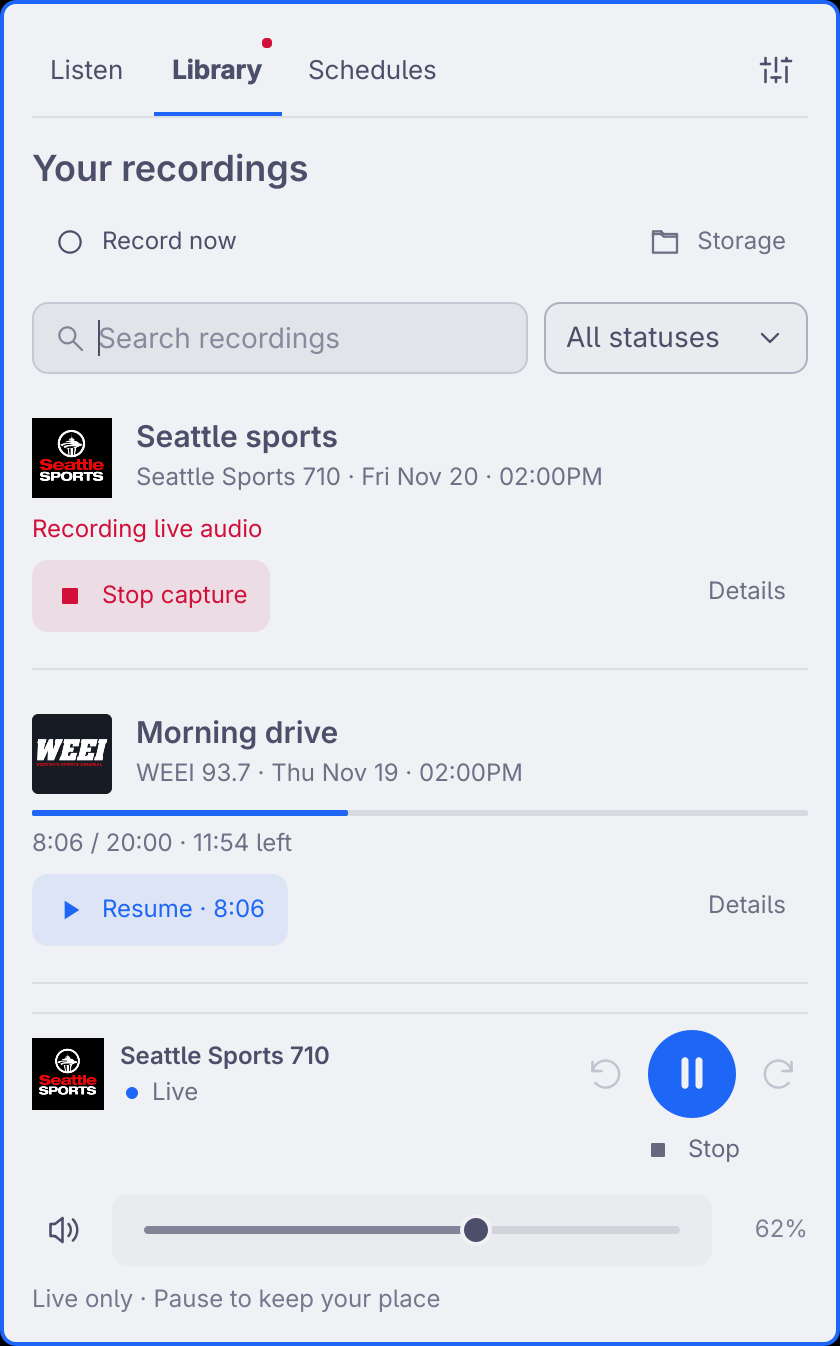
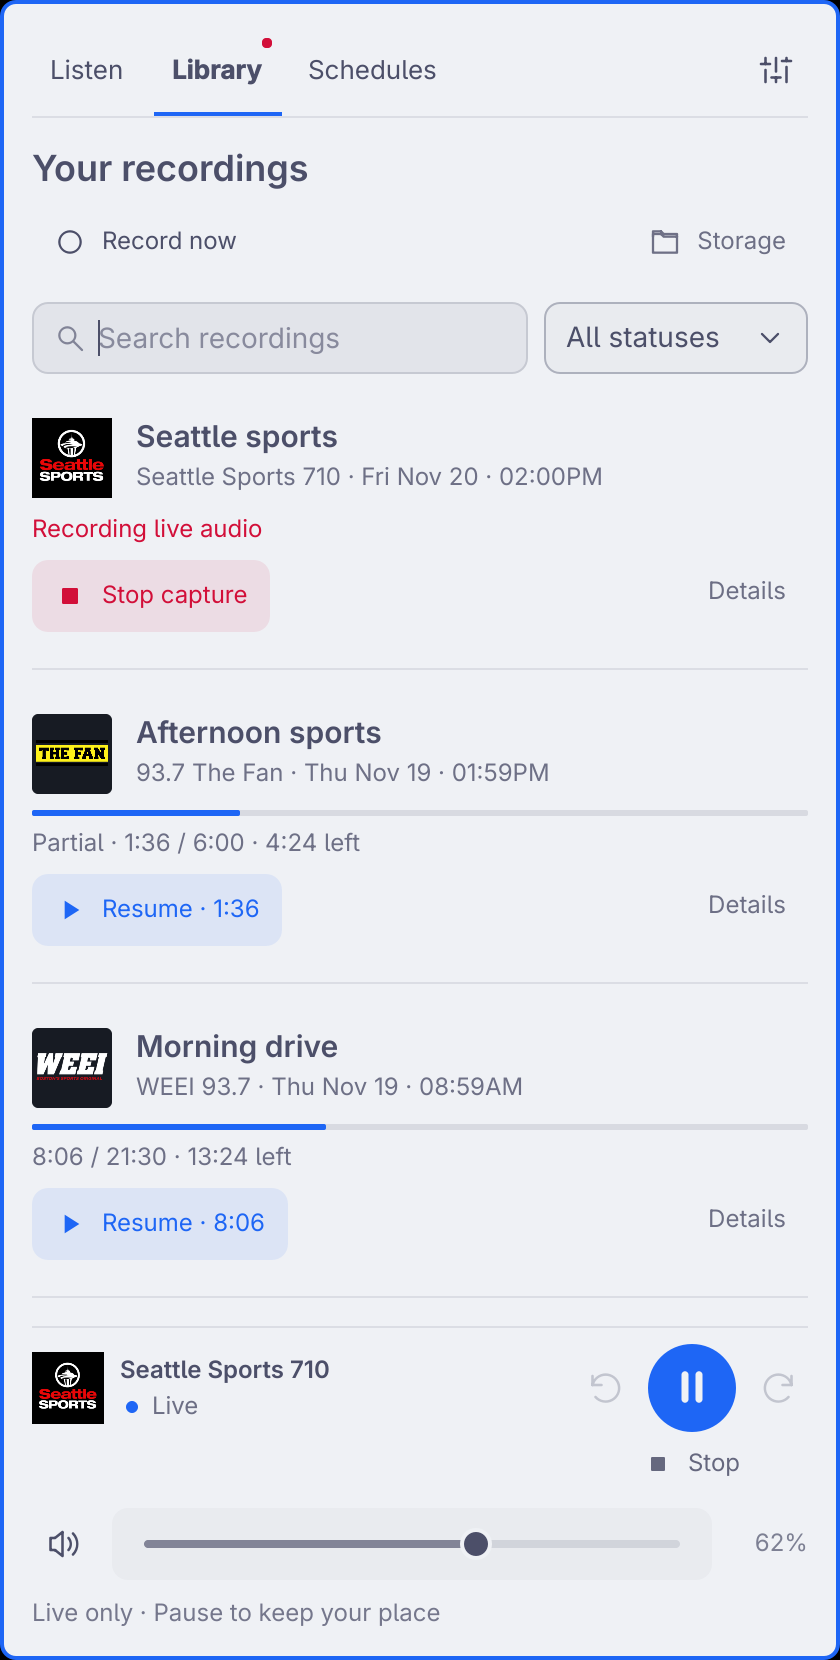
Refresh native screenshots for padded schedules and recovered recordings

diff --git a/tools/readme/gallery.qml b/tools/readme/gallery.qml
@@ -19,7 +19,7 @@ ShellRoot {
       when: false
       property var themes: ({})
       readonly property var radio: panel.radio
-      readonly property var schedule: ({id: "football", label: "Football review", stationId: "talksport", stationName: "talkSPORT", weekdays: [1,2,3,4,5], startTime: "14:00", endTime: "14:20", timezone: "America/New_York", enabled: true, nextStart: "2026-11-23T14:00:00-05:00", nextEnd: "2026-11-23T14:20:00-05:00"})
+      readonly property var schedule: ({id: "football", label: "Football review", stationId: "talksport", stationName: "talkSPORT", weekdays: [1,2,3,4,5], startTime: "14:00", endTime: "14:20", timezone: "America/New_York", enabled: true, preRollSeconds:30, postRollSeconds:60, nextStart: "2026-11-23T14:00:00-05:00", nextEnd: "2026-11-23T14:20:00-05:00", nextCaptureStart:"2026-11-23T13:59:30-05:00", nextCaptureEnd:"2026-11-23T14:21:00-05:00"})
       function snapshot(schedules, recordings, active) {
         return {available: true, revision: 1, error: "", localTimezone: "America/New_York",
           settings: {folder: "/home/demo/Music/Yakker", storageCapBytes: 5368709120, freeSpaceReserveBytes: 1073741824, concurrency: 3},
@@ -95,24 +95,26 @@ ShellRoot {
           capture("stations")
           panel.screenshotPicker.close()
 
-          const complete = {id: "saved", stationId: "weei-fm", label: "Morning drive", stationName: "WEEI 93.7", status: "complete", bytes: 3600000, durationSeconds: 1200,
-            plannedStart: "2026-11-19T14:00:00-05:00", plannedEnd: "2026-11-19T14:20:00-05:00", startedAt: "2026-11-19T14:00:01-05:00", endedAt: "2026-11-19T14:20:00-05:00", playable: true, resumePosition: 486}
+          const complete = {id: "saved", stationId: "weei-fm", label: "Morning drive", stationName: "WEEI 93.7", status: "complete", bytes: 3870000, durationSeconds: 1290,
+            plannedStart: "2026-11-19T09:00:00-05:00", plannedEnd: "2026-11-19T09:20:00-05:00", captureStart:"2026-11-19T08:59:30-05:00", captureEnd:"2026-11-19T09:21:00-05:00", startedAt: "2026-11-19T08:59:31-05:00", endedAt: "2026-11-19T09:21:00-05:00", playable: true, resumePosition: 486}
+          const recovered = {id:"recovered",stationId:"kdka-fm",label:"Afternoon sports",stationName:"93.7 The Fan",status:"partial",bytes:1080000,durationSeconds:360,
+            plannedStart:"2026-11-19T14:00:00-05:00",plannedEnd:"2026-11-19T14:20:00-05:00",captureStart:"2026-11-19T13:59:30-05:00",captureEnd:"2026-11-19T14:21:00-05:00",startedAt:"2026-11-19T13:59:31-05:00",endedAt:"",reason:"plugin interrupted; recovered retained audio",playable:true,resumePosition:96}
           const active = {id: "capturing", stationId: "kiro-am", label: "Seattle sports", stationName: "Seattle Sports 710", status: "recording", bytes: 1800000,
             plannedStart: "2026-11-20T14:00:00-05:00", plannedEnd: "2026-11-20T14:20:00-05:00", startedAt: "2026-11-20T14:00:01-05:00", playable: false}
-          radio.recordings = snapshot([schedule], [active, complete], 1)
+          radio.recordings = snapshot([schedule], [active, recovered, complete], 1)
           selectExample("kiro-am")
           panel.openRecordings(false)
           capture("recordings")
           selectExample("kdka-fm")
-          const detailed = Object.assign({}, complete, {id:"detailed",label:"Afternoon sports",stationId:"kdka-fm",stationName:"93.7 The Fan"})
+          const detailed = Object.assign({}, recovered, {id:"detailed"})
           radio.recordings = snapshot([], [detailed], 0)
           panel.screenshotView.toggleDetails("detailed")
           capture("recording-details")
           panel.screenshotView.toggleDetails("detailed")
 
           selectExample("talksport")
-          const later = Object.assign({}, schedule, {id: "later", label: "Afternoon drive", stationId: "wscr", stationName: "104.3 The Score", startTime: "16:00", endTime: "17:00", nextStart: "2026-11-23T16:00:00-05:00", nextEnd: "2026-11-23T17:00:00-05:00"})
-          const paused = Object.assign({}, schedule, {id: "paused", label: "Weekend catch-up", stationId: "bbc-radio-5-live", stationName: "BBC Radio 5 Live", weekdays: [0,6], enabled: false, nextStart: "", nextEnd: ""})
+          const later = Object.assign({}, schedule, {id: "later", label: "Afternoon drive", stationId: "wscr", stationName: "104.3 The Score", startTime: "16:00", endTime: "17:00", preRollSeconds:60,postRollSeconds:120, nextStart: "2026-11-23T16:00:00-05:00", nextEnd: "2026-11-23T17:00:00-05:00",nextCaptureStart:"2026-11-23T15:59:00-05:00",nextCaptureEnd:"2026-11-23T17:02:00-05:00"})
+          const paused = Object.assign({}, schedule, {id: "paused", label: "Weekend catch-up", stationId: "bbc-radio-5-live", stationName: "BBC Radio 5 Live", weekdays: [0,6], enabled: false, nextStart: "", nextEnd: "",nextCaptureStart:"",nextCaptureEnd:""})
           radio.recordings = snapshot([paused, later, schedule], [], 0)
           panel.openSchedules()
           capture("schedules")
@@ -120,7 +122,9 @@ ShellRoot {
           selectExample("wzgc-fm")
           radio.recordings = snapshot([], [], 0)
           panel.screenshotView.beginEdit(Object.assign({}, schedule, {id: "", kind: "once", date: "2026-11-23"}))
+          panel.screenshotView.screenshotPreviewDelay.stop()
           panel.screenshotView.previewText = "Mon Nov 23 · 02:00PM–02:20PM · America/New_York"
+          panel.screenshotView.previewCaptureText = "Captures Mon Nov 23 · 01:59:30PM–02:21:00PM"
           capture("schedule")
           panel.screenshotView.editing = false
 
@@ -133,7 +137,7 @@ ShellRoot {
           radio.recordings = snapshot([], [complete], 0)
           radio.recordingId = "saved"
           radio.playbackKind = "recording"; radio.recordingTitle = "Morning drive"
-          radio.duration = 1200; radio.position = 486
+          radio.duration = complete.durationSeconds; radio.position = 486
           radio.playbackSpeed = 1.25; radio.sleepRemaining = 900
           capture("recording-player")
           panel.showPlayer()

diff --git a/docs/screenshots.md b/docs/screenshots.md
@@ -54,6 +54,12 @@ Schedule names must match the bundled catalogue. Dates, durations, and recording
 states should be internally consistent; avoid retaining a previous example's
 buffering or timer state in an unrelated view.
 
+The 1.7 gallery shows padded schedule windows and a recovered partial recording.
+Its unknown capture end is deliberate: a forced controller exit cannot supply a
+precise end timestamp. The editor's preview timer is paused only in the temporary
+screenshot wrapper, so illustrative preview text is not replaced by a disconnected
+controller message. Production controls and their layout are unchanged.
+
 These images document appearance. For real controller, recording playback,
 keyboard, and lifecycle checks, use `tools/test-recordings-ui.py` and the checks
 described in the README’s Build checks section. Internal sprint plans and
